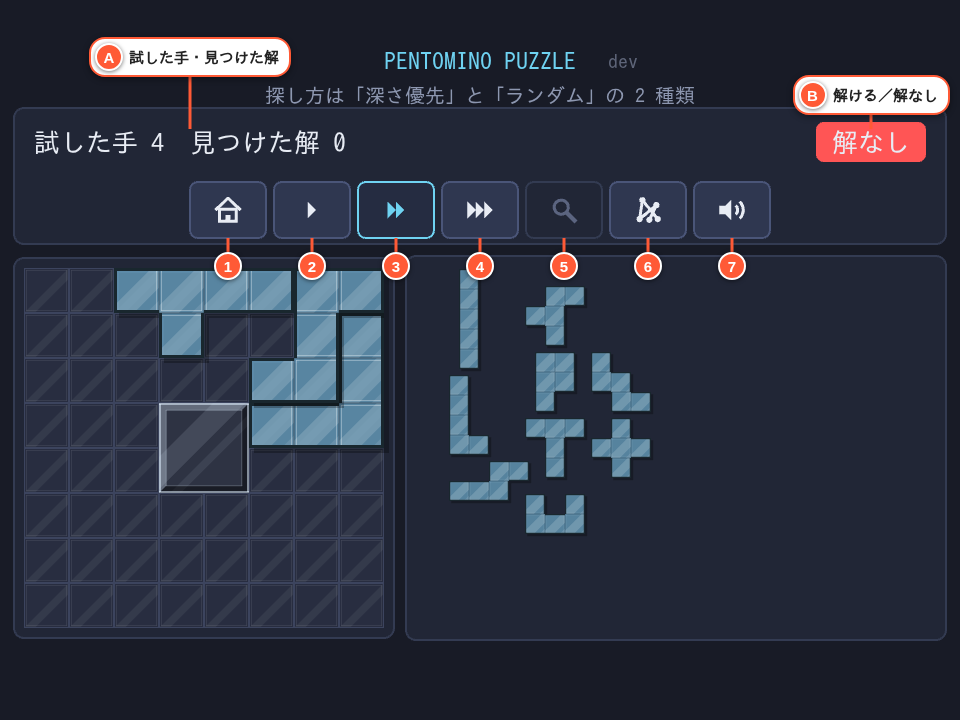
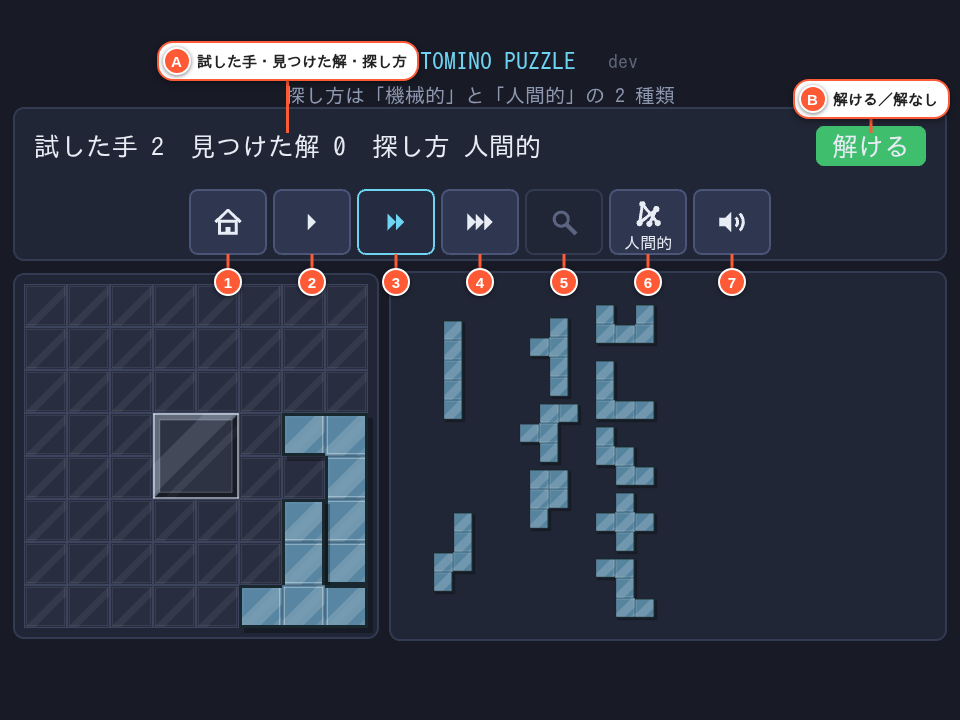
feat(demo): デモの既定の速さを「ゆっくり」にし、今の探し方を HUD に出す（TODO-102）
人間的の 1 手の間隔も 0.5〜5 倍の一様に広げた（ゆっくりで 200〜2000ms）。
縦画面は HUD の 1 段目を詰めて右端の札と重ならないようにした。

Claude-Session: https://claude.ai/code/session_01L7EcU83q8kVS7ReepYXABF

diff --git a/src/scenes/demo.js b/src/scenes/demo.js
@@ -207,8 +207,8 @@ export default class DemoScene extends GameScene {
    */
   pickWaitScale(moveType) {
     if (this.strategy !== 'random') return 1;
-    const jitter = 1 + (Math.random() * 2 - 1) * DEMO.randomJitter;
-    return moveType === 'remove' ? DEMO.randomRemoveMultiplier * jitter : jitter;
+    const scale = DEMO.randomWaitMin + Math.random() * (DEMO.randomWaitMax - DEMO.randomWaitMin);
+    return moveType === 'remove' ? DEMO.randomRemoveMultiplier * scale : scale;
   }
 
   /**
@@ -334,7 +334,8 @@ export default class DemoScene extends GameScene {
 
   /**
    * 本編と同じ枠とボタンの並び（`createHudButtons()`）。1 段目の文字には
-   * 本編の時間と残りの代わりに、試した手と見つけた解の数を出す。
+   * 本編の時間と残りの代わりに、試した手と見つけた解の数と今の探し方を出す
+   * （探し方のボタンは押すと変わるので、今どちらかを文字でも見せる。TODO-102）。
    */
   createHud() {
     const hud = this.layout.hud;
@@ -380,11 +381,16 @@ export default class DemoScene extends GameScene {
     this.nextButton.setEnabled(this.state === 'solved');
   }
 
-  /** 1 段目の文字だけ。1 手ごとに呼ぶ。 */
+  /**
+   * 1 段目の文字だけ。1 手ごとに呼ぶ。縦画面は HUD が狭く、試した手が 5 桁になると
+   * 右端の札に隠れるので、言い回しを詰める（TODO-102）。
+   */
   refreshStatus() {
-    this.statusText.setText(
-      `試した手 ${this.tried.toLocaleString('en-US')}　見つけた解 ${this.solvedCount}`,
-    );
+    const tried = this.tried.toLocaleString('en-US');
+    const { caption } = STRATEGIES[this.strategy];
+    this.statusText.setText(this.layout.portrait
+      ? `手 ${tried}　解 ${this.solvedCount}　${caption}`
+      : `試した手 ${tried}　見つけた解 ${this.solvedCount}　探し方 ${caption}`);
     this.hintBadge.setState(this.hintState);
   }
 
@@ -412,6 +418,8 @@ export default class DemoScene extends GameScene {
     this.strategyButton.setIcon(face.icon).setCaption(face.caption).setTooltip(face.tooltip);
     // 見つけた解の数は探し方ごとに数え直す。
     this.solvedCount = 0;
+    // 全解のデータを待っている間は `startSearch()` を通らないので、ここで書き換える。
+    this.refreshStatus();
     if (this.solutions) this.startSearch();
   }
 

diff --git a/src/config.js b/src/config.js
@@ -814,9 +814,10 @@ export const HINT_BADGE = {
  *   最速は間隔が 1 フレームしか無いので滑らせない
  * - `pauseMs` … 解を見つけた・出し切ったあと、次へ進むまで止まる時間。
  *   タイトルへ戻るまで見続けられるよう、止まったままにはしない（TODO-052）
- * - `randomJitter` … ランダムの探し方だけ、1 手ごとの待ち時間に掛ける揺らぎの
- *   幅（TODO-059）。`intervalMs × (1 ± randomJitter)` の範囲で 1 手ごとに引き直す。
- *   一定間隔だと機械的に見えるため。値は仮で、画面で見て決める
+ * - `randomWaitMin` ・ `randomWaitMax` … ランダムの探し方だけ、1 手ごとの待ち時間に
+ *   掛ける倍率の範囲（TODO-059）。`intervalMs × [randomWaitMin, randomWaitMax]` の
+ *   一様な値を 1 手ごとに引き直す。一定間隔だと機械的に見えるため。人は考え込む
+ *   手もあるので、上は大きく取る（ゆっくりで 200〜2000ms。値は利用者が決めた。TODO-102）
  * - `randomRemoveMultiplier` … ランダムで 1 手外したあとの待ち時間に掛ける
  *   倍率（TODO-059）。外す（考え直す）ところは、置くところより間を空けた方が
  *   人の試行錯誤に見えるため。ただし、次も外す手のときは待たずに続けて
@@ -853,9 +854,10 @@ export const DEMO = {
     fast: { intervalMs: 200, animate: true },
     fastest: { intervalMs: 0, animate: false },
   },
-  defaultSpeed: 'fast',
+  defaultSpeed: 'slow',
   pauseMs: 10000,
-  randomJitter: 0.5,
+  randomWaitMin: 0.5,
+  randomWaitMax: 5,
   randomRemoveMultiplier: 2,
   randomNearPower: 2,
   randomTightWeight: 10,

diff --git a/archives/agents/TODO-102/reviewer-report.md b/archives/agents/TODO-102/reviewer-report.md
@@ -1,0 +1,73 @@
+# TODO-102 reviewer 報告
+
+対象: 未コミットの `git diff`（`src/config.js`、`src/scenes/demo.js`、`docs/UsersGuide.md`、
+`docs/developer.md`、`TODO.md`）。画面のレイアウトと待ち時間の値の良し悪しは見ていない。
+
+## 要修正
+
+### 1. `docs/images/demo.png` が古いまま（`docs/UsersGuide.md:181` と食い違う）
+
+- 何が: UsersGuide は「試した手数と見つけた解の数、今の探し方を画面に出す（Ⓐ）」に
+  変わったが、その上に載せている `images/demo.png`（`docs/UsersGuide.md:166`）は
+  1 段目に「探し方」が無い HUD のまま。注記の文言も `tools/capture.mjs:271` が
+  `text: '試した手・見つけた解'` のままで、撮り直しても Ⓐ のラベルが本文と合わない。
+- 根拠: `git log -- docs/images/demo.png` を見ると、デモの HUD やボタンの見た目を変えた
+  項目（TODO-057・070・075・076・078・094）は同じコミットで撮り直している。
+  CLAUDE.md の「`docs/images/` は `tools/capture.mjs` で撮り直す」。
+  TODO.md のチェックリストにも撮り直しが入っていない。
+
+## 検討
+
+### 2. `docs/UsersGuide.md:211` 「ゆっくりで 0.2〜2 秒」は置く手だけの値
+
+- 何が: 「1 手の間隔も揺れる（ゆっくりで 0.2〜2 秒…）」とあるが、外す手のあと
+  （次が置く手のとき）は `randomRemoveMultiplier` で 2 倍、0.4〜4 秒になる
+  （`src/scenes/demo.js:211`）。「1 手」と書くと外す手も含むように読める。
+- 根拠: コードを読んだ。`src/config.js:820` の JSDoc の「ゆっくりで 200〜2000ms」は
+  倍率 `randomWaitMin`/`randomWaitMax` の説明なので正しい。実害は未確認
+  （利用者向けの文で外す手の 2 倍を書くかは判断）。
+
+### 3. README の GIF（`docs/images/demo.gif`）を撮り直すと動きが大きく減る
+
+- 何が: `tools/capture.mjs:289` は `?demo=random&board=8x8` を既定の速さのまま 10 秒撮る。
+  既定が fast（200ms × 0.5〜1.5）から slow（400ms × 0.5〜5、平均 1100ms 前後）に
+  変わるので、次に撮り直すと 10 秒で動く手数が数分の 1 になる見込み。
+  今の GIF は 1 段目に「探し方」が無い HUD のまま。
+- 根拠: コードを読んだ計算のみ。実測は未確認。1. で撮り直すなら GIF も撮り直すか、
+  GIF だけ `selectSpeed('fast')` を挟むかは判断が要る（README のリンク先は slow で開くので、
+  GIF と開いた画面の速さが食い違う方を取るかどうか）。
+
+### 4. `TODO.md:21` の背景が実装前の値のまま
+
+- 「今は `1 ± DEMO.randomJitter`（0.5）」は旧名。決着時に archives へ移すときに
+  「元は」と書き換えるか消す。範囲の `rg` には入っていないので念のため。
+
+## 問題が無かった観点
+
+- 表示と今の探し方の食い違い: なし。`toggleStrategy()` は待ち中も `refreshStatus()` を
+  通る（`demo.js:418`）。作り直しは `strategy` が `RELAYOUT_KEYS` にあり、`createHud()`・
+  `refreshHud()` より前に戻す（`demo.js:124`）。URL は `parseDemoParams()` が
+  `'depth'`/`'random'` 以外を返さない（`logic.js:1087`）ので `STRATEGIES[...]` が
+  undefined になる経路も無い。`selectSpeed()`・`startSearch()`・`onSolved()` も
+  `refreshHud()` 経由で同じ文を作る。
+- `randomJitter` と「±」の残り: `rg -n -e randomJitter -e '揺' src docs tests.html CLAUDE.md README.md`
+  で旧名は 0 件。「揺」の 3 件（`demo.js:14`・`demo.js:202`・`UsersGuide.md:211`）は
+  新しい挙動でも正しい。`±` は 0 件。`tests.html` に `DEMO` の待ち時間を見るテストは無い。
+- 規約: 数値は `config.js` に置かれ、JSDoc に理由（考え込む手、利用者が決めた）がある。
+  `demo.js` の追加コメントも理由を書いている。行長は既存（最長 99）の範囲。
+- 範囲: 指示外の変更なし。
+- テスト: 純関数の変更が無く、`tests.html` に足すものは無い。
+
+## 好みの範囲
+
+- `docs/UsersGuide.md:176`・`181`・`211` は追記で 1 行が 45 字前後に伸び、前後（35〜40 字）と
+  折り返し位置がそろっていない。
+
+## 作り込みすぎ
+
+- `src/scenes/demo.js:417-419`: shrink（好みの範囲）。データがあるときは `startSearch()` →
+  `refreshHud()` で同じ文をもう一度作るので 2 回書き換える。
+  `if (this.solutions) this.startSearch(); else this.refreshStatus();` にすればコメントごと 1 行で済む。
+  実害は無い（ボタンを押したときだけ）。
+
+net: -1 lines possible.

diff --git a/archives/todo/TODO-102. デモの既定の速さを「ゆっくり」にし、今の探し方を HUD に出す.md b/archives/todo/TODO-102. デモの既定の速さを「ゆっくり」にし、今の探し方を HUD に出す.md
@@ -1,0 +1,68 @@
+# TODO-102. デモの既定の速さを「ゆっくり」にし、今の探し方を HUD に出す
+
+|      | main | 担当 |
+|------|------|------|
+| 見込み | Opus 5.5 / effort medium | main（実装）+ reviewer（Opus 5.5 / high）+ screens（Sonnet 5.5 / low） |
+| 実施 | Opus 5.5 / effort 不明 | main（実装・キャプチャの撮り直し）+ reviewer（Opus 5.5 / high）+ screens（Sonnet 5.5 / low。同じ担当に 2 回） |
+
+| 担当 | モデル | effort | input | output | cache_creation | cache_read | 割合 |
+|------|--------|--------|-------|--------|----------------|------------|------|
+| main | Opus 5.5 | 不明 | 68 | 13,386 | 31,139 | 2,606,236 | 75% |
+| screens | Sonnet 5.5 | low | 26 | 553 | 43,372 | 406,748 | 13% |
+| reviewer | Opus 5.5 | high | 20 | 100 | 53,592 | 359,889 | 12% |
+| 合計 |  |  | 114 | 14,039 | 128,103 | 3,372,873 | 計 3,515,129 |
+
+- main の effort はセッションの設定で、記録に残っていない
+- reviewer の定義は `~/.claude/agents/reviewer.md`（opus / high）。上書きしていない
+- サブエージェントの分は少なめに出ている可能性がある（`token-usage.py` の制約）
+
+## きっかけ
+
+利用者の依頼。デモの既定を「人間的」「ゆっくり」にし、今の探し方を見えるようにしたい。
+探し方の既定はすでに人間的だったので、速さだけを変えた。途中で「人間的の手の間隔を
+200〜2000ms にする」が加わった。
+
+## やったこと
+
+- `src/config.js`: `DEMO.defaultSpeed` を `'slow'` に。`randomJitter`（±0.5）を
+  `randomWaitMin`（0.5）・`randomWaitMax`（5）に替え、待ち時間の倍率を一様に引く
+  （ゆっくりで 200〜2000ms、速いで 100〜1000ms。外す手は今どおりその 2 倍）
+- `src/scenes/demo.js`: HUD の 1 段目に今の探し方を出す。横は
+  「試した手 N　見つけた解 N　探し方 人間的」、縦は「手 N　解 N　人間的」
+  （縦は 5 桁で右端の札に隠れたため。利用者が詰める案を選んだ）。
+  探し方を切り替えたら、全解のデータを待っている間でも書き換える
+- `docs/UsersGuide.md`・`docs/developer.md`: 既定の速さ、1 段目の探し方、待ち時間の幅
+- `tools/capture.mjs` の注記の文言を直し、`docs/images/demo.png` を撮り直した
+  （他の画像と `demo.gif` は撮り直した分を戻した。GIF は `?demo=random` で開き、
+  速さが変わって見え方が変わるが、今回は撮り直していない）
+
+```mermaid
+flowchart LR
+  A[探し方を切り替え] --> B[refreshStatus]
+  B --> C{縦画面?}
+  C -- はい --> D["手 N　解 N　人間的"]
+  C -- いいえ --> E["試した手 N　見つけた解 N　探し方 人間的"]
+```
+
+## 確かめたこと
+
+- reviewer: 表示と今の探し方が食い違う経路は無し。旧名 `randomJitter` の残りも無し。
+  `demo.png` が古い点と、文書の待ち時間が置く手だけの値である点を指摘 → どちらも直した
+- screens: 最も長い文字（試した手 99,999・解 99・解なし）で、横 960×640 は札まで余白 197。
+  縦 390×844 は直す前に札へ 123px かぶり、直したあとは余白 150
+  （`archives/agents/TODO-102/screens-report.md`）
+- main が撮り直した `demo.png` と縦画面の画像を目で見た
+
+## 残ること
+
+- README の `docs/images/demo.gif` は撮り直していない。次に撮り直すと、既定がゆっくりに
+  なった分、同じ秒数で動く手が減る
+
+## 分担の振り返り
+
+- reviewer はキャプチャの文言と画像が古いことを見つけた。main は見落としていた
+- screens は縦画面で札に隠れることを数値で見つけた。見込みどおり、ここが一番の問題だった
+- 見込みとの食い違いは、キャプチャの撮り直しが増えたことと、screens への 2 回目の依頼だけ
+- 次に HUD の文字を変える項目では、screens への依頼に最初から「縦で収まらないときの候補」を
+  持たせず、先に最長の文字の幅を main が `evaluate` で 1 回測ってから案を決める。
+  キャプチャに写る文字を変えるときは `tools/capture.mjs` の注記も見直す対象に入れる

diff --git a/docs/developer.md b/docs/developer.md
@@ -288,7 +288,7 @@ Records の「この回を続ける」でも、記録の画面で見ているボ
 | **探し方**（深さ優先・ランダム） | 探索の順（TODO-050・TODO-057）。深さ優先は `solveSteps()`、ランダムは `solveStepsRandom()`。切り替えると空のボードから探し直す。ランダムは、覆えるピースが 1 種類しか無い空きマスがあれば、そのピースでそのマスを覆う手に絞る（`singlePieceCell()`。TODO-082。5 マスの穴を埋める手（`forcedPlacements()`）の次に優先する。控えに入れた手は除いて数えるので、別のピースを試してだめだったマスも当たる）。無ければまずピースを、置ける手が一番少ない空きマス「狭い所」（`countCellMoves()`）を覆えるものが選ばれやすいように抽選し（`DEMO.randomTightWeight`。TODO-061）、覆えるなら置き方も狭い所を覆う手に絞る。置き方の抽選は、ボードの端・置いたピースの隣に接するほど（`touchWeight()`）、直前に置いた手に近いほど（`moveDistance()`。TODO-062）重みが大きくなる。同じ深さ（ボードに残るピースの数）への「詰まり」（置ける手が尽きるか、解の無い盤面で `DEMO.randomDeadLimit` 手置いて戻る行き詰まりの一続きのみ。TODO-081。置いた直後にその場で外す手は数えない）が `DEMO.randomCollapseAfter` 回続いたら、続けて `DEMO.randomCollapseMoves` 手をまとめて外す（人は同じ所で詰まり続けると大きく崩すため。TODO-063）。崩した手も 1 手ずつ通常どおり控えに入る。`ゆっくり`・`速い` では、ボードへ滑らせる前に
 トレイでの今の向きから置く向きまで、`orientationSteps()`（`logic.js`）が返す
 最短の回転・裏返しで 1 段ずつ回して見せる（`playTurns()`。TODO-065） |
-| 試した手 / 見つけた解 | HUD の 1 段目に出す数。試した手はピースを置いた回数（外した置き方も含む。外した回数は数えない）、見つけた解は解けて止まった回数 |
+| 試した手 / 見つけた解 | HUD の 1 段目に出す数（その右に今の探し方も出す。縦画面は「手」「解」と詰め、探し方は名前だけにする。TODO-102）。試した手はピースを置いた回数（外した置き方も含む。外した回数は数えない）、見つけた解は解けて止まった回数 |
 | 解ける / 解なし | HUD の 1 段目の右端に出す、置いた直後のボードが解につながるか。本編のヒント表示と同じ札（`createHintBadge()`）で、全解のデータ（`hasSolution`）で決める。深さ優先は解なしならその手はすぐ外す。ランダムは置ける手が尽きるまで外さず、尽きたら解けるに戻るまで外す（TODO-059）。解なしの盤面で置いた手（その場で外した手も含む）が `DEMO.randomDeadLimit` 手に達したときも、尽きるのを待たずに同じく戻る（TODO-081）。ただしランダムでも、5 の倍数でない大きさの閉じた空きができたとき、5 マスの穴に合う残りのピースで埋めた直後に解なしになったとき、残りのどのピースでも覆えない空きマスができたとき（`hasUncoverableCell()`。置き済みのピースと同じ形の 5 マスの空きもこれに当たる）は、行き詰まりを待たずその場で外す（2 つ目はその前に置いた手もまとめて外す。TODO-060・TODO-066・TODO-067・TODO-068・TODO-077） |
 
 解そのものの呼び名:

diff --git a/archives/agents/TODO-102/screens-report.md b/archives/agents/TODO-102/screens-report.md
@@ -1,0 +1,42 @@
+# TODO-102 画面の確認
+
+値は内部解像度の座標。札の左端 = 札の文字の左端 − HINT_BADGE.padX(16)。
+条件: Demo を pause、tried=99999, solvedCount=99, hintState='dead', refreshStatus()。
+
+| 大きさ | 探し方 | statusText 右端 | 札の左端 | HUD 枠の右端 | 判定 |
+|---|---|---|---|---|---|
+| 縦 390x844 | 人間的 (8x8) | 619 | 496 | 626 | **重なる（123 食い込む）** |
+| 縦 390x844 | 機械的 (6x10) | 619 | 496 | 626 | **重なる（123 食い込む）** |
+| 横 960x640 | 人間的 (8x8) | 619 | 816 | 946 | 重ならない（余白 197） |
+| 横 960x640 | 機械的 (6x10) | 619 | 816 | 946 | 重ならない（余白 197） |
+
+statusText は HUD 枠の右端（626）には収まる（7 の余白）が、縦では HUD の 1 段目の右端に寄せた
+札（解なし）が「探し方 人間的/機械的」の途中から上に被り、「探し」の後ろ（「方 人間的」）が札に隠れる。
+画像でも確認（縦: 「探し」の次から札で隠れ、末尾の「的」だけ札の右にはみ出して見える）。
+最長条件（試した手 99,999・見つけた解 99・解なし）での値。実害（通常の数値での被り）は未測定。
+「解ける」は札が短いので、被りは少ないはず（未測定）。
+
+## 画像
+- /home/ytani/tmp/playwright-mcp/todo102-390x844-human-8x8.png（縦・人間的・8x8、重なりあり）
+- /home/ytani/tmp/playwright-mcp/todo102-390x844-machine-6x10.png（縦・機械的・6x10、重なりあり）
+- /home/ytani/tmp/playwright-mcp/todo102-960x640-human-8x8.png（横・人間的・8x8、問題なし）
+- /home/ytani/tmp/playwright-mcp/todo102-960x640-machine-6x10.png（横・機械的・6x10、問題なし。目で確認、欠けなし）
+
+## コンソール
+エラー 0 件。警告 4 件（すべて同じ: `GL Driver Message (OpenGL, Performance, GL_CLOSE_PATH_NV, High): GPU stall due to ReadPixels`）。
+
+## 備考
+`hintBadge` は Phaser のオブジェクトではなく `{setState, setDepth}` だけの普通のオブジェクトで `getBounds()` が無い。
+左端は札の文字（Text '解なし'）の getBounds().left から padX を引いて求めた。
+
+## 再測定（縦だけ詰めた版）
+同じ条件。内部解像度の座標。
+
+| 大きさ | 探し方 | statusText 右端 | 札の左端 | HUD 枠の右端 | 判定 |
+|---|---|---|---|---|---|
+| 縦 390x844 | 人間的 (8x8) | 346 | 496 | 626 | 重ならない（余白 150） |
+| 縦 390x844 | 機械的 (6x10) | 346 | 496 | 626 | 重ならない（余白 150） |
+
+文言: 「手 99,999　解 99　人間的」/「…機械的」。目視は未実施（数値のみ）。エラー 0 件。
+- /home/ytani/tmp/playwright-mcp/todo102-re-390x844-human-8x8.png
+- /home/ytani/tmp/playwright-mcp/todo102-re-390x844-machine-6x10.png

diff --git a/docs/UsersGuide.md b/docs/UsersGuide.md
@@ -173,12 +173,12 @@
 
 画面上端のボタンは本編と同じくアイコンで、マウスを載せると（タッチ端末では
 押すと）何のボタンかが出る。速さは **ゆっくり**・**速い**・**最速**
-から選べる（右向きの三角が 1・2・3 個）。どの速さでも 1 手ずつ進むので、
+から選べる（右向きの三角が 1・2・3 個。既定はゆっくり）。どの速さでも 1 手ずつ進むので、
 置いては外す様子を目で追える。解を見つけると 10 秒止まり、そのあと
 自動で次の解を探すので、**タイトルへ** を押すまで止まらない。待たずに
 進めたいときは **次の解を探す**（虫眼鏡）を押す。次の解はボードを片づけて
 最初から探し直す。
-試した手数と見つけた解の数を画面に出す（Ⓐ）。試した手数は最初から探し直すたびに
+試した手数と見つけた解の数、今の探し方を画面に出す（Ⓐ）。試した手数は最初から探し直すたびに
 0 に戻る。見つけた解の数は探し方を切り替えると 0 に戻る。
 
 **探し方** のボタンで、人間的（線が絡まった点）と機械的（枝分かれする木）を
@@ -208,7 +208,7 @@
 外し、大きく崩してやり直す
 （置いた直後にその場で外す手は詰まりに数えない。人は同じ所で詰まり続けると
 「やり直そう」と崩すため）。
-1 手の間隔も少しずつ揺れるが、
+1 手の間隔も揺れる（ゆっくりで 0.2〜2 秒、外したあとはその 2 倍。考え込む手もあるように見せるため）。ただし
 外す手が連なるとき（機械的・人間的のどちらも）は待たずに続けて動かす。
 置いた手そのものは今までどおりの間隔で見える。
 切り替えると空のボードから探し直す。音の ON・OFF と **タイトルへ** も

diff --git a/TODO.md b/TODO.md
@@ -1,26 +1,8 @@
 # TODO
 
-**残っている項目: TODO-102。** これまでに 101 件を決着させた。
+**残っている項目: なし。** これまでに 102 件を決着させた。
 新しく足すときは「完了済み」の上に節を作る。
-**新規項目の番号は `TODO-102` から。**
-
----
-
-## TODO-102. デモの既定の速さを「ゆっくり」にし、今の探し方を HUD に出す
-
-|      | main | 担当 |
-|------|------|------|
-| 見込み | Opus 5.5 / effort medium | main（実装）+ reviewer（Opus 5.5 / high）+ screens（Sonnet 5.5 / low） |
-
-- [ ] `DEMO.defaultSpeed` を `'fast'` から `'slow'` にする
-- [ ] HUD の 1 段目を「試した手 N　見つけた解 N　探し方 人間的」にし、探し方を切り替えたら書き換える
-- [ ] 人間的の 1 手の待ち時間の倍率を 0.5〜5 倍の一様にする（ゆっくりで 200〜2000ms、速いで 100〜1000ms。外す手は今どおりその 2 倍）
-- [ ] `docs/UsersGuide.md` と `docs/developer.md` の該当箇所を直す
-
-探し方の既定はすでに人間的（`demo.js` の `this.strategy`）なので変えない。
-表示の位置は利用者が HUD の 1 段目に決めた。待ち時間の範囲も利用者が決めた
-（今は `1 ± DEMO.randomJitter`（0.5）。TODO-059）。縦画面では右端の札
-（解ける／解なし）と重ならないかを screens で撮って確かめる。
+**新規項目の番号は `TODO-103` から。**
 
 ---
 

diff --git a/archives/index.md b/archives/index.md
@@ -4,6 +4,7 @@
 作り直すので、手で直さない。やらないと決めたものは（対応しない）が付いている。
 進行中の項目は [TODO.md](../TODO.md) にある。
 
+- [TODO-102. デモの既定の速さを「ゆっくり」にし、今の探し方を HUD に出す](todo/TODO-102.%20%E3%83%87%E3%83%A2%E3%81%AE%E6%97%A2%E5%AE%9A%E3%81%AE%E9%80%9F%E3%81%95%E3%82%92%E3%80%8C%E3%82%86%E3%81%A3%E3%81%8F%E3%82%8A%E3%80%8D%E3%81%AB%E3%81%97%E3%80%81%E4%BB%8A%E3%81%AE%E6%8E%A2%E3%81%97%E6%96%B9%E3%82%92%20HUD%20%E3%81%AB%E5%87%BA%E3%81%99.md)
 - [TODO-101. `check-agent-reply.py` の `--project` を開発者向けの文書に反映する](todo/TODO-101.%20%60check-agent-reply.py%60%20%E3%81%AE%20%60--project%60%20%E3%82%92%E9%96%8B%E7%99%BA%E8%80%85%E5%90%91%E3%81%91%E3%81%AE%E6%96%87%E6%9B%B8%E3%81%AB%E5%8F%8D%E6%98%A0%E3%81%99%E3%82%8B.md)
 - [TODO-100. サブエージェントの定義を今の `~-.claude-` の決まりに合わせる](todo/TODO-100.%20%E3%82%B5%E3%83%96%E3%82%A8%E3%83%BC%E3%82%B8%E3%82%A7%E3%83%B3%E3%83%88%E3%81%AE%E5%AE%9A%E7%BE%A9%E3%82%92%E4%BB%8A%E3%81%AE%20%60~-.claude-%60%20%E3%81%AE%E6%B1%BA%E3%81%BE%E3%82%8A%E3%81%AB%E5%90%88%E3%82%8F%E3%81%9B%E3%82%8B.md)
 - [TODO-099. 「盤」の呼び名を「ボード」に変える](todo/TODO-099.%20%E3%80%8C%E7%9B%A4%E3%80%8D%E3%81%AE%E5%91%BC%E3%81%B3%E5%90%8D%E3%82%92%E3%80%8C%E3%83%9C%E3%83%BC%E3%83%89%E3%80%8D%E3%81%AB%E5%A4%89%E3%81%88%E3%82%8B.md)

diff --git a/archives/agents/TODO-102/README.md b/archives/agents/TODO-102/README.md
@@ -1,0 +1,7 @@
+# TODO-102 の分担
+
+- main: 実装（数行の変更なので分けなかった）、`docs/images/demo.png` の撮り直し
+- reviewer（Opus 5.5 / high）: 既定の速さと分岐（探し方の表示の書き換え）が変わるため。報告は [reviewer-report.md](reviewer-report.md)
+- screens（Sonnet 5.5 / low）: 縦画面で 1 段目の文字が札と重ならないかを数値で測るため。直したあと同じ担当に測り直させた。報告は [screens-report.md](screens-report.md)
+
+記録は [archives/todo/ の TODO-102](../../todo/) にある。
